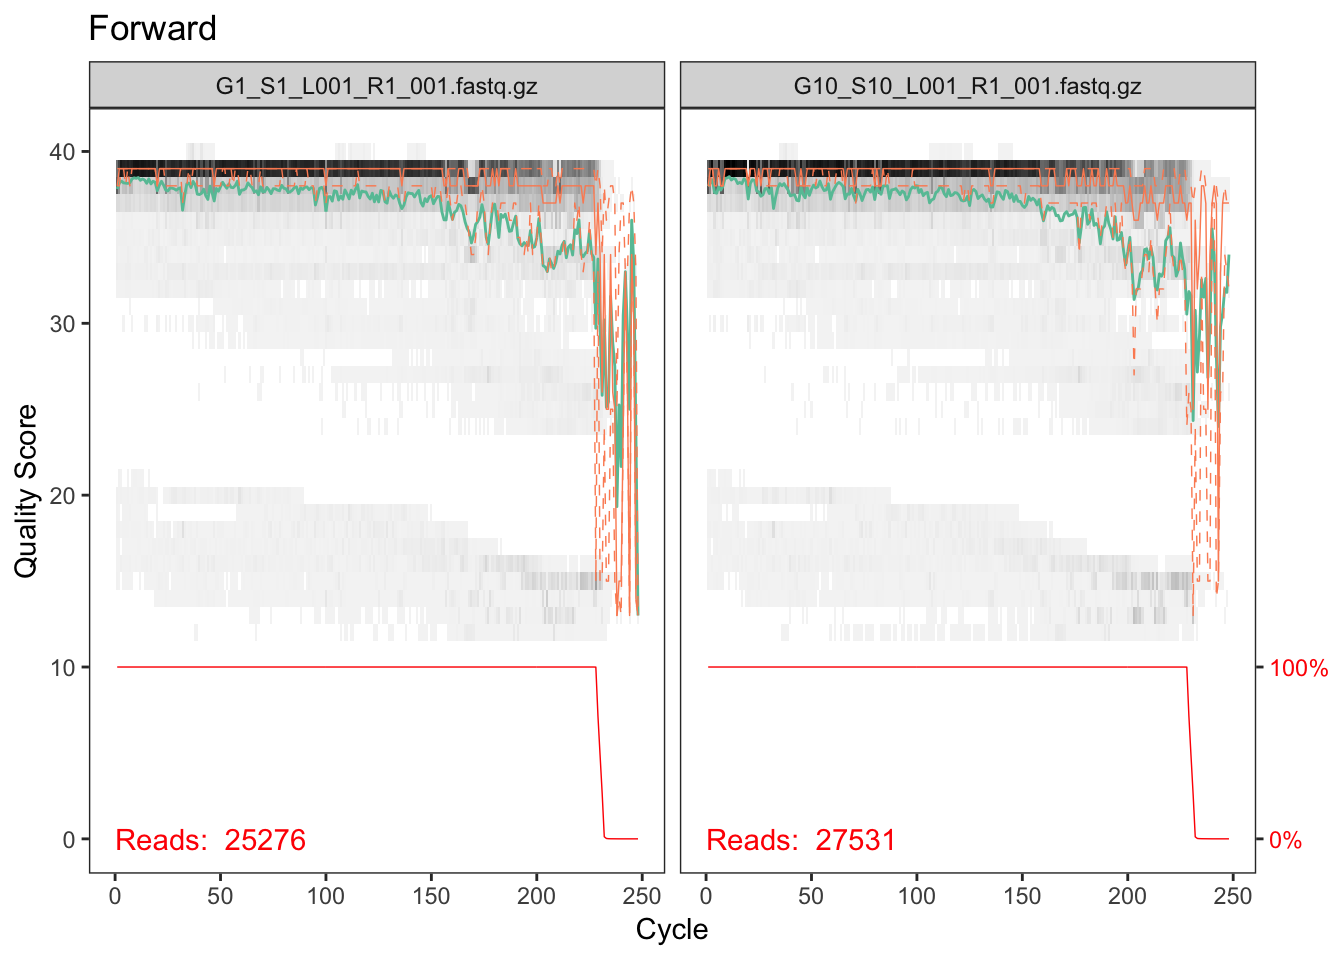
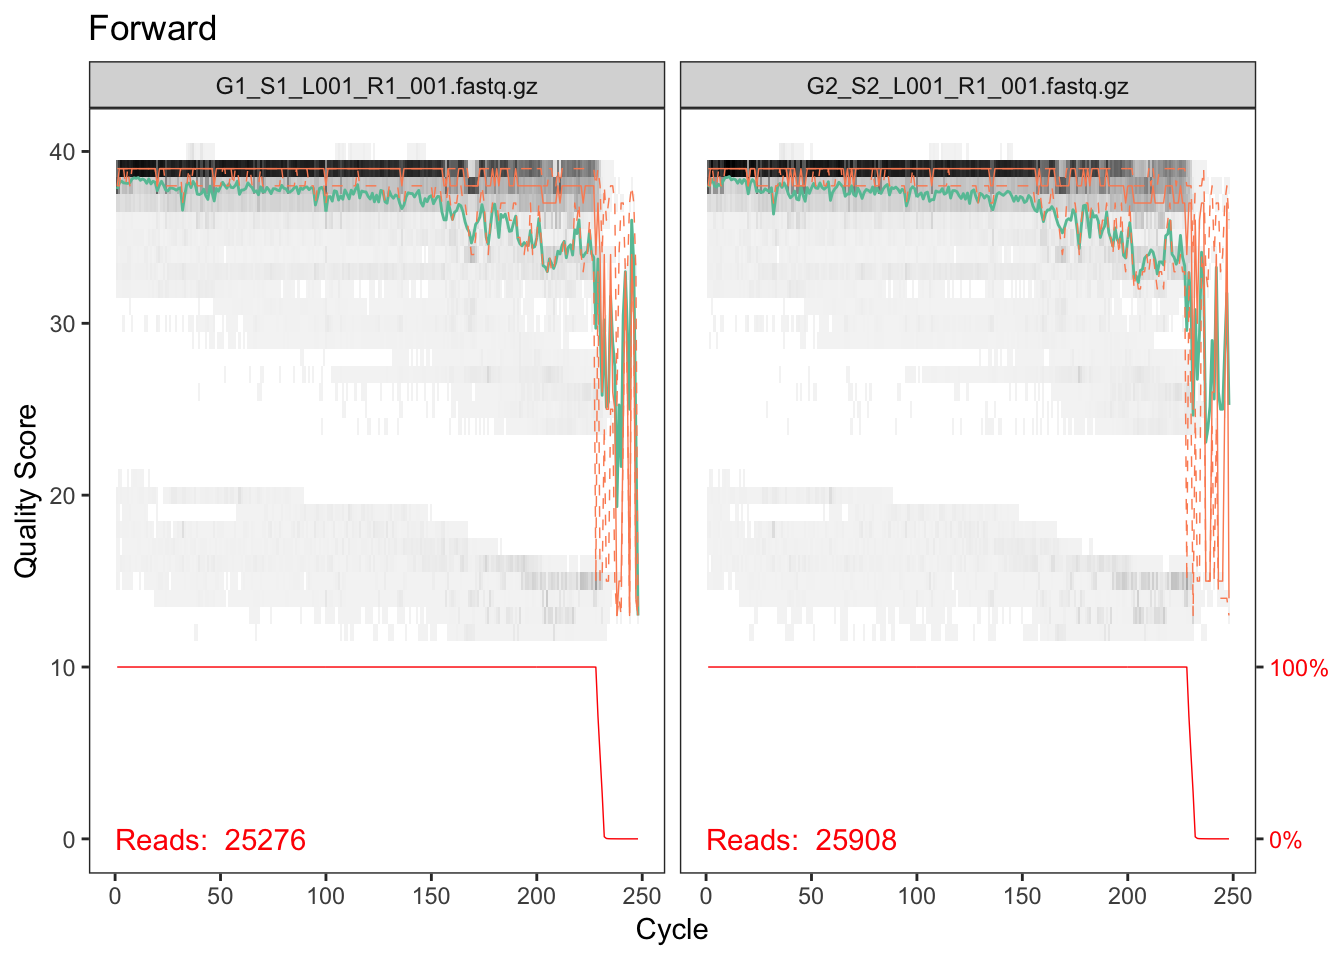
full build

diff --git a/docs/analysis.html b/docs/analysis.html
@@ -420,39 +420,62 @@ sample3 sample3_S3_L001_R1_001.fastq     sample3_S3_L001_R2_001.fastq
 </div>
 <div id="dada2-example-workflow" class="section level2">
 <h2>DADA2 Example Workflow</h2>
-<p>The following is a sample analysis using the DADA2 pipeline (<a href="https://benjjneb.github.io/dada2/tutorial.html" class="uri">https://benjjneb.github.io/dada2/tutorial.html</a>). This is meant to be an example and not a definitive workflow. First we load packages and set a seed for reproducibility.</p>
+<div id="preamble" class="section level3">
+<h3>Preamble</h3>
+<p>The <a href="https://benjjneb.github.io/dada2/tutorial.html">DADA2 pipeline</a> is used as a method to correct errors that are introduced into sequencing data during amplicon sequencing. The output of this pipeline is a table of amplicon sequence variants (ASVs), as opposed to the traditional OTUs seen in other amplicon sequencing workflows that cluster similar sequences into a single OTU. DADA2 is capable of resolving biological differences of 1 or 2 nucleotides, producing ASVs from amplicon data that are of higher resolution than OTUs.</p>
+</div>
+<div id="requirements-installations" class="section level3">
+<h3>Requirements &amp; Installations</h3>
+<p>DADA2 is an open-source <a href="https://github.com/benjjneb/dada2">R package</a> that will allow you to run through the entire pipeline, including steps to filter, dereplicate, identify chimeras, and merge paired-end reads.</p>
+<p>To use DADA2, you must download and install R for your operating system. This can be done <a href="https://cloud.r-project.org/">here</a>. You should use the latest version of R/</p>
+<p>If you would like, download and install RStudio, which is an integrated development environment (IDE) for R programming. This can be done through <a href="https://www.rstudio.com/download">this link</a>.</p>
+<p>Since DADA2 is available as part of the Bioconductor Project Package Repository, install Bioconductor in R.</p>
+<pre><code>install.packages(&quot;BiocManager&quot;)</code></pre>
+<p>To install the latest version of the DADA2 package (1.12.1), type the following:</p>
+<pre><code>BiocManager::install(&quot;dada2&quot;, version = &quot;3.9&quot;)</code></pre>
+<p><em>If you have previously installed R and Bioconductor, you may need to update them to the most recent versions.</em></p>
+<p>To use the DADA2 pipeline, primers must be removed from the amplicon sequence data. In the following tutorial, we will be using the <code>cutadapt</code> tool in R to do this. Cutadapt can be installed as a conda package. If you do not already have conda installed, you can do so <a href="https://docs.conda.io/en/latest/miniconda.html">here</a>. Once you have conda installed, go to Terminal or Command Prompt, and type the following:</p>
+<pre><code>conda install -c bioconda cutadapt</code></pre>
+</div>
+<div id="dada2-workflow" class="section level3">
+<h3>DADA2 Workflow</h3>
+<p>Once you have installed the above, you are ready to start using the DADA2 pipeline. The following is a sample analysis using the DADA2 pipeline (<a href="https://benjjneb.github.io/dada2/tutorial.html" class="uri">https://benjjneb.github.io/dada2/tutorial.html</a>). This is meant to be an example and not a definitive workflow. First, we load packages and set a seed for reproducibility.</p>
 <pre class="r"><code>library(DECIPHER)
-packageVersion(&quot;DECIPHER&quot;)
-
-library(dada2)
-packageVersion(&quot;dada2&quot;) 
-
-library(ShortRead)
-packageVersion(&quot;ShortRead&quot;) 
-
-library(Biostrings)
-packageVersion(&quot;Biostrings&quot;)
-
-library(ggplot2)
-packageVersion(&quot;ggplot2&quot;)
-
-library(stringr) # not strictly required but handy
-packageVersion(&quot;stringr&quot;)
-
-set.seed(106)</code></pre>
+packageVersion(&quot;DECIPHER&quot;)</code></pre>
+<pre><code>## [1] &#39;2.12.0&#39;</code></pre>
+<pre class="r"><code>library(dada2)
+packageVersion(&quot;dada2&quot;) </code></pre>
+<pre><code>## [1] &#39;1.12.1&#39;</code></pre>
+<pre class="r"><code>library(ShortRead)
+packageVersion(&quot;ShortRead&quot;) </code></pre>
+<pre><code>## [1] &#39;1.42.0&#39;</code></pre>
+<pre class="r"><code>library(Biostrings)
+packageVersion(&quot;Biostrings&quot;)</code></pre>
+<pre><code>## [1] &#39;2.52.0&#39;</code></pre>
+<pre class="r"><code>library(ggplot2)
+packageVersion(&quot;ggplot2&quot;)</code></pre>
+<pre><code>## [1] &#39;3.1.1&#39;</code></pre>
+<pre class="r"><code>library(stringr) # not strictly required but handy
+packageVersion(&quot;stringr&quot;)</code></pre>
+<pre><code>## [1] &#39;1.4.0&#39;</code></pre>
+<pre class="r"><code>set.seed(106)</code></pre>
+</div>
 <div id="setup" class="section level3">
 <h3>Setup</h3>
-<p>To get started we’ll need to do a little prep. We’ll start by defining where our raw data files live using the <code>path</code> variable. We then create a vector of file names, one for the forward reads and one for the reverse. The <code>samples</code> vector contains our sample names, extracted from the file names using a regular expression. For Illumina data, often the sample name is everything before the first underscore.</p>
+<p>To get started we’ll need to do a little prep. We’ll start by defining the path of sequences to be processed (using “~/Miseq_Run” from previous examples). The DADA2 pipeline is intended to be used with demultiplexed, paired-end fastq files. That is to say, the samples must be separated into individual files and ordered such that forward and reverse reads of the same sample are matched. The pattern of the filenames should be the same for all forward and reverse files. In this example, the names are formatted as such: <code>samplename_R1_001.fastq.fz</code> for forward reads and <code>samplename_R2_001.fastq.gz</code> for reverse reads.</p>
+<p>We then create a vector of file names, one for the forward reads and one for the reverse. The <code>samples</code> vector contains our sample names, extracted from the file names using a regular expression. For Illumina data, often the sample name is everything before the first underscore.</p>
 <p>The primer sequences are defined here as well, because we’ll be clipping those off shortly. The forward primer will be at the beginning of the forward read and the reverse primer will be at the beginning of the reverse read. The reverse complements are included in case the amplicon sequence is shorter than our read length. When this happens the sequence will contain the reverse complement of the opposite primer, i.e. there may be reverse-complemented reverse primer at the end of the forward read.</p>
 <pre class="r"><code>path &lt;- &quot;~/MiSeq_Run&quot;
 
 fwd_files &lt;- sort(list.files(path, pattern = &quot;R1&quot;, full.names = TRUE)) 
 rev_files &lt;- sort(list.files(path, pattern = &quot;R2&quot;, full.names = TRUE))
 
+
 # It&#39;s also handy to have a vector of sample names, which in this case is everything up 
 # until the first underscore, which is what our regular expression caputres.  You may
 # also create this manually if you don&#39;t have too many samples
 samples = str_extract(basename(fwd_files), &quot;^[^_]+&quot;)
+
 
 names(fwd_files) &lt;- samples
 names(rev_files) &lt;- samples
@@ -468,8 +491,10 @@ count_primers &lt;- function(primer, filename) {
   return(sum(num_hits &gt; 0))
 }
 
-count_primers(fwd_primer, fwd_files[[1]])
-count_primers(rev_primer, rev_files[[1]])</code></pre>
+count_primers(fwd_primer, fwd_files[[1]])</code></pre>
+<pre><code>## [1] 25357</code></pre>
+<pre class="r"><code>count_primers(rev_primer, rev_files[[1]])</code></pre>
+<pre><code>## [1] 21503</code></pre>
 </div>
 <div id="primer-removal" class="section level3">
 <h3>Primer removal</h3>
@@ -519,6 +544,9 @@ for (i in seq_along(fwd_files)) {
 
 # quick check that we got something
 head(list.files(cut_dir))</code></pre>
+<pre><code>## [1] &quot;G1_S1_L001_R1_001.fastq.gz&quot; &quot;G1_S1_L001_R2_001.fastq.gz&quot;
+## [3] &quot;G1.log&quot;                     &quot;G2_S2_L001_R1_001.fastq.gz&quot;
+## [5] &quot;G2_S2_L001_R2_001.fastq.gz&quot; &quot;G2.log&quot;</code></pre>
 </div>
 <div id="inspect-quality-scores" class="section level3">
 <h3>Inspect quality scores</h3>
@@ -569,6 +597,9 @@ filtered_out &lt;- filterAndTrim(
   )  
 
 head(filtered_out)</code></pre>
+<pre><code>##                            reads.in reads.out
+## G1_S1_L001_R1_001.fastq.gz    25276     24107
+## G2_S2_L001_R1_001.fastq.gz    25908     24533</code></pre>
 </div>
 <div id="main-dada2-workflow" class="section level3">
 <h3>Main dada2 workflow</h3>
@@ -576,17 +607,22 @@ head(filtered_out)</code></pre>
 <div id="learn-errors" class="section level4">
 <h4>Learn errors</h4>
 <p>Here dada2 learns the error profile for your data using an interative approach. These error profiles are used in the next step to correct errors.</p>
-<pre class="r"><code>err_fwd &lt;- learnErrors(fwd_filt, multithread = TRUE)
-err_rev &lt;- learnErrors(rev_filt, multithread = TRUE)
-
-plotErrors(err_fwd, nominalQ = TRUE)</code></pre>
+<pre class="r"><code>err_fwd &lt;- learnErrors(fwd_filt, multithread = TRUE)</code></pre>
+<pre><code>## 11162461 total bases in 48640 reads from 2 samples will be used for learning the error rates.</code></pre>
+<pre class="r"><code>err_rev &lt;- learnErrors(rev_filt, multithread = TRUE)</code></pre>
+<pre><code>## 11118332 total bases in 48640 reads from 2 samples will be used for learning the error rates.</code></pre>
+<pre class="r"><code>plotErrors(err_fwd, nominalQ = TRUE)</code></pre>
 <p><img src="analysis_files/figure-html/unnamed-chunk-6-1.png" width="672" /> The plot shows how well the estimated error rates fit the observed rates. The black line should line up reasonably well with the black points. This looks reasonable so we continue on.</p>
 </div>
 <div id="denoising-aka-error-correcting" class="section level4">
 <h4>Denoising (aka error-correcting)</h4>
 <p>We can now denoise our sequences using the DADA algorithm. Note that older versions of dada2 required a dereplication step that is now done automatically by the <code>dada</code> function.</p>
-<pre class="r"><code>dada_fwd &lt;- dada(fwd_filt, err = err_fwd, multithread = TRUE)
-dada_rev &lt;- dada(rev_filt, err = err_rev, multithread = TRUE)</code></pre>
+<pre class="r"><code>dada_fwd &lt;- dada(fwd_filt, err = err_fwd, multithread = TRUE)</code></pre>
+<pre><code>## Sample 1 - 24107 reads in 4939 unique sequences.
+## Sample 2 - 24533 reads in 5379 unique sequences.</code></pre>
+<pre class="r"><code>dada_rev &lt;- dada(rev_filt, err = err_rev, multithread = TRUE)</code></pre>
+<pre><code>## Sample 1 - 24107 reads in 15358 unique sequences.
+## Sample 2 - 24533 reads in 15463 unique sequences.</code></pre>
 </div>
 <div id="merge-pairs" class="section level4">
 <h4>Merge pairs</h4>
@@ -605,12 +641,14 @@ dada_rev &lt;- dada(rev_filt, err = err_rev, multithread = TRUE)</code></pre>
 <p>Before we can assign taxonomy, we can construct a sequence table, which lists the number of each sequence present in each sample. We can see the dimensions of this sequence table, where the number of rows is the number of samples and the number of columns is the number of total unique sequences</p>
 <pre class="r"><code>seqtab &lt;- makeSequenceTable(mergers)
 dim(seqtab) </code></pre>
+<pre><code>## [1]  2 55</code></pre>
 </div>
 <div id="remove-chimeras" class="section level4">
 <h4>Remove chimeras</h4>
 <p>Don’t be alarmed here if many of your sequences are discarded - the number of chimeras varies but can be quite high in some cases.</p>
 <pre class="r"><code>seqtab_nochim &lt;- removeBimeraDenovo(seqtab, method = &quot;consensus&quot;, multithread = TRUE, verbose = TRUE)
 dim(seqtab_nochim)</code></pre>
+<pre><code>## [1]  2 19</code></pre>
 </div>
 </div>
 <div id="how-did-we-do" class="section level3">
@@ -618,6 +656,9 @@ dim(seqtab_nochim)</code></pre>
 <div id="sequence-length-distribution" class="section level4">
 <h4>Sequence length distribution</h4>
 <pre class="r"><code>table(nchar(getSequences(seqtab_nochim)))</code></pre>
+<pre><code>## 
+## 273 274 281 283 287 288 289 291 
+##   2   2   2   2   2   1   1   7</code></pre>
 </div>
 <div id="number-of-reads-at-each-step" class="section level4">
 <h4>Number of reads at each step</h4>
@@ -636,7 +677,97 @@ track &lt;- cbind(
 colnames(track) &lt;- c(&quot;raw&quot;, &quot;filtered&quot;, &quot;denoised_fwd&quot;, &quot;denoised_rev&quot;, &quot;merged&quot;, &quot;no_chim&quot;)
 rownames(track) &lt;- samples  
 head(track)</code></pre>
+<pre><code>##      raw filtered denoised_fwd denoised_rev merged no_chim
+## G1 25276    24107        24071        21484  21286   20336
+## G2 25908    24533        24479        21994  21684   19950</code></pre>
 </div>
+</div>
+<div id="assigning-taxonomy-with-idtaxa" class="section level3">
+<h3>Assigning taxonomy with IDTAXA</h3>
+<p>Now that we have a sequence table with the chimeras removed, we can classify/assign taxonomy to the sequence variants. Although there are multiple multiple taxonomic classification methods, we will be using IdTaxa, which is available through the <code>DECIPHER</code> package. You can read more about IdTaxa <a href="https://microbiomejournal.biomedcentral.com/articles/10.1186/s40168-018-0521-5">here</a>.</p>
+<div id="training-the-classifier" class="section level4">
+<h4>Training the classifier</h4>
+<p>The IdTaxa classification method relies on a training set that contains sequences that are representative of known taxa. Although there exists trained classifiers, we will be using the ITS2 Nematode database as our classifier. Since it is not trained, we will have to train the classifier using <code>LearnTaxa</code>, which is also available as a <code>DECIPHER</code> package. The <code>train</code> parameter of <code>LearnTaxa</code> contains the sequences included in the classifier as a DNAStringSet. Each sequence is formatted such that the names of each taxonomic level is separated by a semicolon. Once the sequence headers of the classifier are parsed, the <code>taxonomy</code> parameter will contain the taxonomic assignment, separated by a semicolon, for each sequence in <code>train</code>.</p>
+<pre class="r"><code># Load the sequences (we use the rdp formatted database here - the IDTAXA formatted version will be forthcoming)
+train &lt;- readDNAStringSet(&quot;~/Nematode_ITS2_rdp_0.9.3.fasta&quot;)
+
+# extract the sequence headers and remove everything up to and including the first space
+# this is the format required by the classifier
+taxonomy &lt;- names(train)
+taxonomy = str_remove(taxonomy, &quot;^[\\S]+\\s&quot;)
+
+# Train the classifier
+trainingSet &lt;- LearnTaxa(train, taxonomy)</code></pre>
+<pre><code>## ===========================================================================
+## 
+## Time difference of 11.07 secs</code></pre>
+</div>
+<div id="running-idtaxa" class="section level4">
+<h4>Running IdTaxa</h4>
+<p>To use IdTaxa, we will need to convert the unique sequence variants that we want to classify into a DNAStringSet object. Now that we have our trained classifier (i.e. training set) and the sequences we want to classify, we can run <code>IdTaxa</code>. You can change various parameters of <code>IdTaxa</code> depending on your data. We recommend reviewing the [IdTaxa documentation] (<a href="https://rdrr.io/bioc/DECIPHER/man/IdTaxa.html" class="uri">https://rdrr.io/bioc/DECIPHER/man/IdTaxa.html</a>) for further information. Here, we have specified several parameters:</p>
+<ul>
+<li><code>strand = &quot;both&quot;</code> : by setting the <code>strand</code> parameter to “both”, each sequence variant is classified using both the forward and reverse complement orientation. The sequence varient will be classified as the result with the highest confidence.</li>
+<li><code>threshold = 60</code> : setting the <code>threshold</code> to 60 specifies when the taxonomic classifications are truncated. A lower threshold usually results in higher taxonomic level classifications, but lower accuracy (i.e. confidence). A higher threshold usually results in lower taxonomic level classifications, but with higher accuracy.</li>
+<li><code>bootstraps = 100</code> : this specifies the amount of times bootstrap replicates are performed for each sequence.</li>
+<li><code>processors = NULL</code> : automatically uses all available processors.</li>
+<li><code>verbose = TRUE</code> : displays progress.</li>
+<li><code>type = &quot;extended&quot;</code> : by setting the <code>type</code> to “extended”, the output for each sequence variant will contain the taxonomic classification, the names of each taxonomic rank, and the confidence of the assignment.</li>
+</ul>
+<pre class="r"><code>dna &lt;- DNAStringSet(getSequences(seqtab_nochim))
+
+idtaxa &lt;- IdTaxa(dna, 
+              trainingSet, 
+              strand = &quot;both&quot;, 
+              threshold = 60, 
+              bootstraps = 100, 
+              processors = NULL, 
+              verbose = TRUE, 
+              type = &quot;extended&quot;)</code></pre>
+<pre><code>## ===========================================================================
+## 
+## Time difference of 0.62 secs</code></pre>
+<p>Although it contains all the necessary information, the output of <code>IdTaxa</code> is not as intuitive as we would like. It outputs a list of the sequence variants. Within this list, each element will have its taxonomic classification and the confidence for each taxon. To facilitate easier manipulation and comprehension of the data, we will convert this list into a matrix, with the rows as the sequence variants and the columns as their taxonomic classifications.</p>
+<pre class="r"><code># These are the ranks in the Nematode ITS2 database
+ranks &lt;- c(&quot;superkingdom&quot;, &quot;kingdom&quot;, &quot;phylum&quot;, &quot;class&quot;, &quot;order&quot;, &quot;family&quot;, &quot;genus&quot;, &quot;species&quot;)
+
+# Extract the classification and remove the &quot;Root&quot; column
+taxid &lt;- t(sapply(idtaxa, function(x) x$taxon))[,-1]
+
+# column bnames are the ranks, and rownames should match the column names of the sequence table
+colnames(taxid) &lt;- ranks
+rownames(taxid) &lt;- colnames(seqtab_nochim)</code></pre>
+</div>
+</div>
+<div id="over-to-phyloseq" class="section level3">
+<h3>Over to phyloseq</h3>
+<pre class="r"><code>library(phyloseq)
+# This is just a placeholder - normally this would be a dataframe containing all your sample inforamtion,
+# with rownames matching the sample names
+samp_data &lt;-  data.frame(
+  row.names = samples,
+  sample = samples
+)
+
+# We need better tables for our sequences than the actual sequence which is the dada2 default
+asvs &lt;- paste0(&quot;ASV_&quot;, 1:length(dna))
+rownames(taxid) &lt;- asvs
+colnames(seqtab_nochim) &lt;- asvs
+names(dna) &lt;- asvs
+
+# Now we put everything into one phyloseq object (even the sequences) so it is easy to use
+physeq = phyloseq(
+  otu_table(seqtab_nochim, taxa_are_rows = FALSE),
+  tax_table(taxid),
+  sample_data(samp_data),
+  dna
+)
+
+physeq</code></pre>
+<pre><code>## phyloseq-class experiment-level object
+## otu_table()   OTU Table:         [ 19 taxa and 2 samples ]
+## sample_data() Sample Data:       [ 2 samples by 1 sample variables ]
+## tax_table()   Taxonomy Table:    [ 19 taxa by 8 taxonomic ranks ]
+## refseq()      DNAStringSet:      [ 19 reference sequences ]</code></pre>
 </div>
 </div>
 <div id="downloads" class="section level2">
